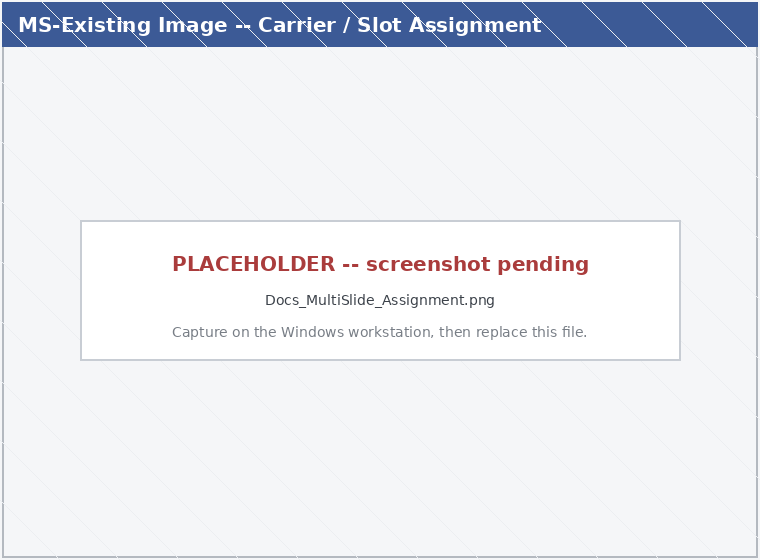
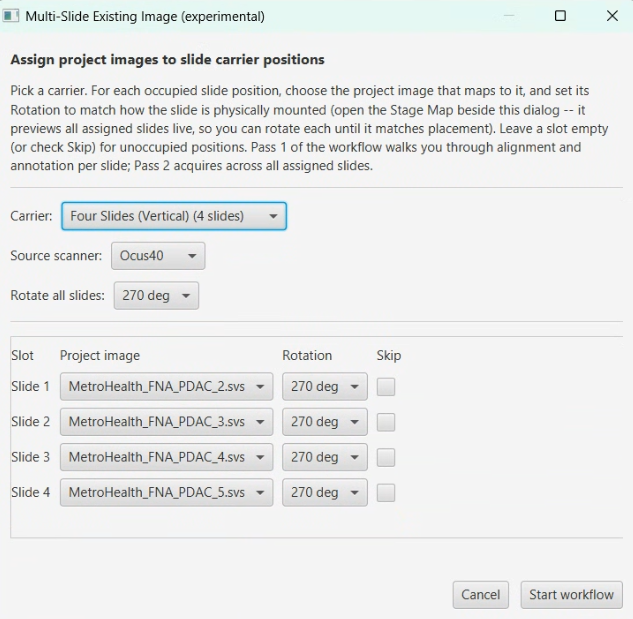
docs(multislide): sync to promoted 'Multi-Slide Acquisition' naming + real screenshots
Follows the code promotion (1ca016dc): the workflow is no longer preference-gated
or labeled MS-Existing Image / experimental -- the menu entry appears when the
config has a multi-slide holder.

- Replace multi-slide placeholders with real captures (assignment dialog, batch
  progress panel, multi-tile refinement panel) and add two new figures:
  Docs_MultiSlide_StageMap.png (4-slide holder preview) and
  Docs_MultiTileRefinement2.png (per-point state + SIFT Matching Settings dialog).
  Wire them into the multi-slide and microscope-alignment pages; registry updated.
- Rename references across UTILITIES.md, WORKFLOWS.md, PREFERENCES.md,
  WORKFLOW_DATA_FLOW.md, WORKFLOW_MAP.md, existing-image-acquisition.md; remove the
  deleted 'Enable Multi-Slide Workflow' preference row + section; fix anchors.

Changed region(s): [[0.0, 0.0, 1.0, 1.0]]

diff --git a/documentation/tools/multi-slide-acquisition.md b/documentation/tools/multi-slide-acquisition.md
@@ -1,6 +1,6 @@
-# Multi-Slide Acquisition (experimental)
+# Multi-Slide Acquisition
 
-> Menu: Extensions > QP Scope > MS-Existing Image (experimental)
+> Menu: Extensions > QP Scope > Multi-Slide Acquisition...
 > [Back to README](../../README.md) | [All Tools](../UTILITIES.md) | [All Workflows](../WORKFLOWS.md)
 
 ## Purpose
@@ -14,11 +14,6 @@ an **acquire pass** (walk-away, no dialogs). Use it when you have a multi-slide
 holder (currently the 4-slide vertical holder, `quad_v`) and want to set up all
 slides once and then let the run proceed on its own.
 
-> **Experimental.** This is an early release. The per-slot acquisition and
-> alignment logic is identical to single-slide Workflow 2; the two-pass mode
-> just splits that workflow into a setup half (which persists each per-slide
-> alignment) and an acquire half (which replays it).
-
 ![Multi-slide carrier assignment dialog](../images/Docs_MultiSlide_Assignment.png)
 
 ![Multi-slide batch progress panel](../images/Docs_MultiSlide_BatchPanel.png)
@@ -31,12 +26,13 @@ slides once and then let the run proceed on its own.
 > [refinement / Auto-Align (SIFT) dialogs](microscope-alignment.md#step-4-refinement-manual-or-automatic).
 > This page does not re-screenshot those shared dialogs; see their own pages.
 
-## Enabling the menu
+## When the menu appears
 
-The **MS-Existing Image (experimental)** menu item is hidden by default. Turn on
-**Enable Multi-Slide Workflow (experimental)** in
-[Preferences](../PREFERENCES.md) to show it. The menu item appears and
-disappears live when you toggle the preference -- no restart required.
+The **Multi-Slide Acquisition...** menu item appears automatically when the
+active microscope config defines a multi-slide holder (carrier) -- e.g. the
+4-slide vertical holder, `quad_v`. If your config has no multi-slide holder, the
+entry is hidden. (There is no preference to toggle; it follows the config. See
+[Stage carrier schema](../developer/CARRIER_SCHEMA.md) for defining a holder.)
 
 ## Prerequisites
 
@@ -47,9 +43,13 @@ disappears live when you toggle the preference -- no restart required.
 - A microscope connection for acquisition (the assignment and alignment steps
   are interactive; the acquire pass runs against the saved per-slide alignments).
 
+## Before you start
+
+When you launch **Multi-Slide Acquisition...**, the **Live Viewer** and **Stage Map** are automatically opened (if not already visible). These show the camera feed and stage context while you assign slides to carrier slots. If either window is already open, it is brought to focus instead of opening a duplicate.
+
 ## Step 1 -- Assign slides to slots
 
-Open **MS-Existing Image (experimental)**. In the assignment dialog:
+In the assignment dialog:
 
 1. **Pick the carrier** for the holder you have mounted.
 2. **Set rotations.** Use **Rotate all slides** at the top to set every slot at
@@ -67,11 +67,13 @@ Open **MS-Existing Image (experimental)**. In the assignment dialog:
    Each non-zero rotation creates or reuses a rotated duplicate entry so
    acquisition aligns to the mounted orientation. Check **Skip** to leave a slot
    empty.
-4. **Preview placement.** Open the [Stage Map](stage-map.md) beside this dialog
-   to see all assigned slides rendered at their chosen rotations over the
+4. **Preview placement.** The [Stage Map](stage-map.md) is displayed alongside this
+   dialog and shows all assigned slides rendered at their chosen rotations over the
    holder's slots, updating live as you change rotations. The preview stays
    visible after the dialog closes, as a layout reference through the alignments
    that follow.
+
+   ![Stage Map preview of a 4-slide vertical holder with tissue bounding boxes](../images/Docs_MultiSlide_StageMap.png)
 
 > **Slide orientation note.** Each slot's true orientation comes from *its own
 > alignment during setup*, not from the holder calibration (which only knows the

diff --git a/documentation/PREFERENCES.md b/documentation/PREFERENCES.md
@@ -42,7 +42,6 @@ This document provides comprehensive documentation for all QPSC preferences avai
 | [Disable All Autofocus (Danger)](#disable-all-autofocus-danger) | Boolean | OFF | Send `--af-disabled` on the wire so server runs zero AF |
 | Save Raw Tiles | Boolean | OFF | Save unprocessed tiles alongside corrected |
 | Warn On Low Disk Space | Boolean | ON | Alert when disk space is low before acquisition |
-| Enable Multi-Slide Workflow (experimental) | Boolean | OFF | Adds the MS-Existing Image menu entry for multi-slide carriers (e.g. quad_v) |
 | [Reuse saved alignment (TESTING ONLY)](#reuse-saved-alignment-testing-only) | Boolean | OFF | Multi-slide batch alignment reuse (UNSAFE, testing only) |
 | [Autofocus on slot jump](#autofocus-on-slot-jump) | Boolean | ON | Auto-focus after stage reaches each slot during multi-slide batch |
 | [Force Camera View on alignment start](#force-camera-view-on-alignment-start) | Boolean | ON | Switch Stage Map to Camera View when multi-slide alignment starts |
@@ -724,29 +723,6 @@ Off by default: it changes where every tile lands, and is worth confirming on yo
 
 ---
 
-### Enable Multi-Slide Workflow (experimental)
-
-| Property | Value |
-|----------|-------|
-| Type | Boolean |
-| Default | OFF |
-| Requires Restart | No |
-
-**Description:**
-Adds an experimental Multi-Slide Existing Image entry to the QP Scope menu. The menu item appears and disappears **live** when you toggle this preference — **no restart required**. When enabled, the workflow assigns project macro images to slot positions in a multi-slide carrier (e.g. the 4-slide vertical holder) and guides you through acquisition on each slot. You can run slots one at a time manually, or use semi-automated or fully unattended two-pass batch modes.
-
-**When to Enable:**
-- You are using a multi-slide carrier (quad_v or similar)
-- You have a project with macro entries (one per slide) that are ready to acquire from
-- You want to run the same acquisition workflow on multiple slides in sequence
-
-**When to Disable:**
-- Hide the MS-Existing Image menu entry when you don't need multi-slide batch acquisition
-- Return to single-slide workflows (the regular Bounded Acquisition and Acquire from Existing Image entries remain unaffected)
-
-**See Also:** [MS-Existing Image (experimental)](WORKFLOWS.md#ms-existing-image-experimental) workflow documentation.
-
----
 
 ### Autofocus on slot jump
 
@@ -850,7 +826,7 @@ The zoom is best-effort: if no bounding-box preview is currently set on the Stag
 - **Always OFF for real acquisition** — any slide remount invalidates the transforms
 - Default production setting; only toggle ON for specific test scenarios
 
-**See Also:** [MS-Existing Image (experimental)](WORKFLOWS.md#ms-existing-image-experimental) workflow documentation.
+**See Also:** [Multi-Slide Acquisition](WORKFLOWS.md#multi-slide-acquisition) workflow documentation.
 
 ---
 

diff --git a/documentation/images/IMAGE_REGISTRY.md b/documentation/images/IMAGE_REGISTRY.md
@@ -30,8 +30,9 @@ This file tracks the relationship between documentation screenshots and the Java
 | `Docs_LiveViewer_Camera.png` | `ui/liveviewer/LiveViewerWindow.java` (camera tab) | -- | CHECK -- previously untracked |
 | `Docs_MicroscopeAlignment_SelectSourceMicroscope.png` | `ui/MicroscopeSelectionDialog.java` | -- | CHECK |
 | `Docs_MicroscopeAlignment_RefineAlignment.png` | `controller/workflow/SingleTileRefinement.java` (3-point / single-tile refinement dialog) | -- | CHECK -- SIFT refinement dialogs changed substantially; verify or re-capture |
-| `Docs_MultiTileRefinement.png` | `controller/workflow/MultiTileRefinement.java` (numbered multi-tile SIFT panel) | -- | PLACEHOLDER -- new dialog, needs first real capture on Windows |
-| `Docs_SiftCapturePane.png` | `controller/workflow/SiftCapturePane.java` / `ui/SiftAutoAlignHelper.java` | -- | PLACEHOLDER -- Auto-Align (SIFT) capture pane, needs first real capture on Windows |
+| `Docs_MultiTileRefinement.png` | `controller/workflow/MultiTileRefinement.java` (numbered multi-tile SIFT panel, initial state) | 2026-07-23 | OK |
+| `Docs_MultiTileRefinement2.png` | `controller/workflow/MultiTileRefinement.java` (per-point capture state) + SIFT Matching Settings dialog (`ui/SiftAutoAlignHelper.java`) | 2026-07-23 | OK |
+| `Docs_SiftCapturePane.png` | `controller/workflow/SiftCapturePane.java` / `ui/SiftAutoAlignHelper.java` | -- | PLACEHOLDER -- single-tile Auto-Align capture pane, needs first real capture on Windows |
 | `Docs_StageMap.png` | `ui/stagemap/StageMapWindow.java`, `ui/stagemap/StageMapCanvas.java` | -- | CHECK -- new "Calibrate..." button since 2026-05-27 |
 | `Docs_DishCoverslipCalibration.png` | Diagram / `ui/stagemap/StageMapWindow.java` insert calibration | -- | CHECK -- previously untracked |
 | `Docs_PropagationManager.png` | `controller/ForwardPropagationWorkflow.java` | -- | CHECK -- previously untracked |
@@ -44,8 +45,9 @@ This file tracks the relationship between documentation screenshots and the Java
 | `Docs_WhiteBalanceCalibration.png` | `ui/WhiteBalanceDialog.java` | 2026-05-27 | OK |
 | `Docs_mainmenu.png` | `SetupScope.java` | -- | CHECK -- menu changes since 2026-05-27 |
 | `Docs_ppmmenu.png` | `SetupScope.java` (PPM modality submenu) | -- | CHECK |
-| `Docs_MultiSlide_Assignment.png` | `ui/MultiSlideAssignmentDialog.java` | -- | PLACEHOLDER -- needs first real capture on Windows |
-| `Docs_MultiSlide_BatchPanel.png` | `controller/MultiSlideExistingImageWorkflow.java` | -- | PLACEHOLDER -- needs first real capture on Windows |
+| `Docs_MultiSlide_Assignment.png` | `ui/MultiSlideAssignmentDialog.java` | 2026-07-23 | OK |
+| `Docs_MultiSlide_BatchPanel.png` | `controller/MultiSlideExistingImageWorkflow.java` | 2026-07-23 | OK |
+| `Docs_MultiSlide_StageMap.png` | `ui/stagemap/StageMapWindow.java` (multi-slide holder preview) | 2026-07-23 | OK |
 
 ## Missing Screenshots (UI exists but no image)
 

diff --git a/documentation/tools/microscope-alignment.md b/documentation/tools/microscope-alignment.md
@@ -150,6 +150,10 @@ The same Auto-Align (SIFT) helper is also available in the post-alignment single
 
 **Cross-modality matching (16-bit camera vs 8-bit WSI):** When the microscope camera produces 16-bit images and the reference is an 8-bit H&E or PPM WSI, SIFT collapses if the camera range is naively bit-shifted to 8-bit. The SIFT Settings dialog exposes mono-normalization mode (`PERCENTILE` / `MIN_MAX` / `BIT_SHIFT`), percentile clip points, and CLAHE settings. Defaults (`PERCENTILE` 2/98 + CLAHE on, clipLimit=2.0) are tuned for that case. See [Preferences > SIFT Auto-Alignment](../PREFERENCES.md#sift-auto-alignment) for tuning guidance.
 
+The multi-tile refinement panel mid-capture (after a tile is selected, showing **Auto-Align (SIFT)** / **Add reference point** / **Skip point**), with the **SIFT Matching Settings** dialog opened via **Settings...**:
+
+![Multi-tile refinement per-point state alongside the SIFT Matching Settings dialog](../images/Docs_MultiTileRefinement2.png)
+
 ### Step 5: Validation
 
 Test the calculated transform:

diff --git a/documentation/UTILITIES.md b/documentation/UTILITIES.md
@@ -16,7 +16,7 @@ The **QP Scope** entry in the menu bar shows a coloured dot so it stands out whe
 | [Acquisition Wizard](tools/acquisition-wizard.md) | Guided setup for new acquisitions | Extensions > QP Scope > Acquisition Wizard... |
 | Bounded Acquisition | Direct bounding-box acquisition from stage coordinates | Extensions > QP Scope > Bounded Acquisition |
 | Existing Image Acquisition | Targeted acquisition from annotations on existing images | Extensions > QP Scope > Acquire from Existing Image |
-| [Multi-Slide Acquisition](tools/multi-slide-acquisition.md) (experimental) | Batch-acquire several slides in one holder (setup pass + walk-away acquire) | Extensions > QP Scope > MS-Existing Image (experimental) |
+| [Multi-Slide Acquisition](tools/multi-slide-acquisition.md) | Batch-acquire several slides in one holder (setup pass + walk-away acquire); appears when config has a multi-slide holder | Extensions > QP Scope > Multi-Slide Acquisition... |
 | [Live Camera Viewer](tools/live-viewer.md) | Real-time camera feed with integrated stage control | Extensions > QP Scope > Live Viewer |
 | [Camera Control](tools/camera-control.md) | View/test camera exposure and gain settings | Extensions > QP Scope > Camera Control... |
 | [Stage Map](tools/stage-map.md) | Visual map with slide positions and macro overlay | Extensions > QP Scope > Stage Map |

diff --git a/documentation/tools/existing-image-acquisition.md b/documentation/tools/existing-image-acquisition.md
@@ -78,7 +78,7 @@ If alignment records from other microscopes exist but *cannot* be composed throu
 **Automatic Recommendation by Alignment Age or Insert Change:** The dialog shows an automatic recommendation based on the saved alignment's last-refinement date and whether it was built for the current stage insert:
 - **"Proceed without refinement"** — Alignment recently created or refined (high confidence) AND built on the current stage insert.
 - **"Single-tile refinement"** — Alignment aged 1–~50 days (medium confidence) or older than ~50 days (low confidence). For aged alignments, the message adds: "verify the existing alignment; choose Full manual to re-align from scratch" to encourage explicit choice.
-- **"Single-tile refinement"** — During multi-slide batch acquisition (MS-Existing Image workflow), when a saved alignment was created on a *different* stage insert than the one currently in use (e.g., an alignment from a single-slide layout but the microscope now has a multi-slide holder). The dialog explains that the previous alignment cannot be trusted because the slide's position in the holder has changed, and single-tile refinement will establish a fresh alignment for the current mount.
+- **"Single-tile refinement"** — During multi-slide batch acquisition (Multi-Slide Acquisition workflow), when a saved alignment was created on a *different* stage insert than the one currently in use (e.g., an alignment from a single-slide layout but the microscope now has a multi-slide holder). The dialog explains that the previous alignment cannot be trusted because the slide's position in the holder has changed, and single-tile refinement will establish a fresh alignment for the current mount.
 - **Multi-tile refinement** is *not* auto-recommended (the recommendation logic only ever suggests No Refinement, Single-tile, or Full manual) — it is a manual choice you select when the holder design allows slides to shift or rotate in their slot (common with vertical multi-slide holders). Multi-tile refinement captures 2+ spread reference points and solves a rotation + scale correction, eliminating the "perfect at one tile, drifting elsewhere" problem that single-tile cannot fix. Much faster than full manual re-alignment because it starts from the existing alignment.
 
 **Saved Alignment Objective Mismatch Advisory:** If you load a saved alignment that was created at a different objective than your wizard's current setting, the system checks whether the mismatch poses a real risk. Going to a coarser objective (lower magnification, e.g., 40x alignment → 10x acquisition) is safe: the linear transform is preserved and any refinement translation shrinks to a fraction of the new tile. Going to a finer objective (higher magnification, e.g., 10x alignment → 40x acquisition) extrapolates the refinement translation across multiple tiles and risks misalignment. A modal dialog appears only in the risky case (finer objective), explaining that refinement translations are tied to the objective's tile geometry. You can continue with the loaded alignment or cancel to adjust the wizard's objective or re-align. (Note: this is distinct from a sub-image entry's objective mismatch, which is checked separately and has its own advisory.)